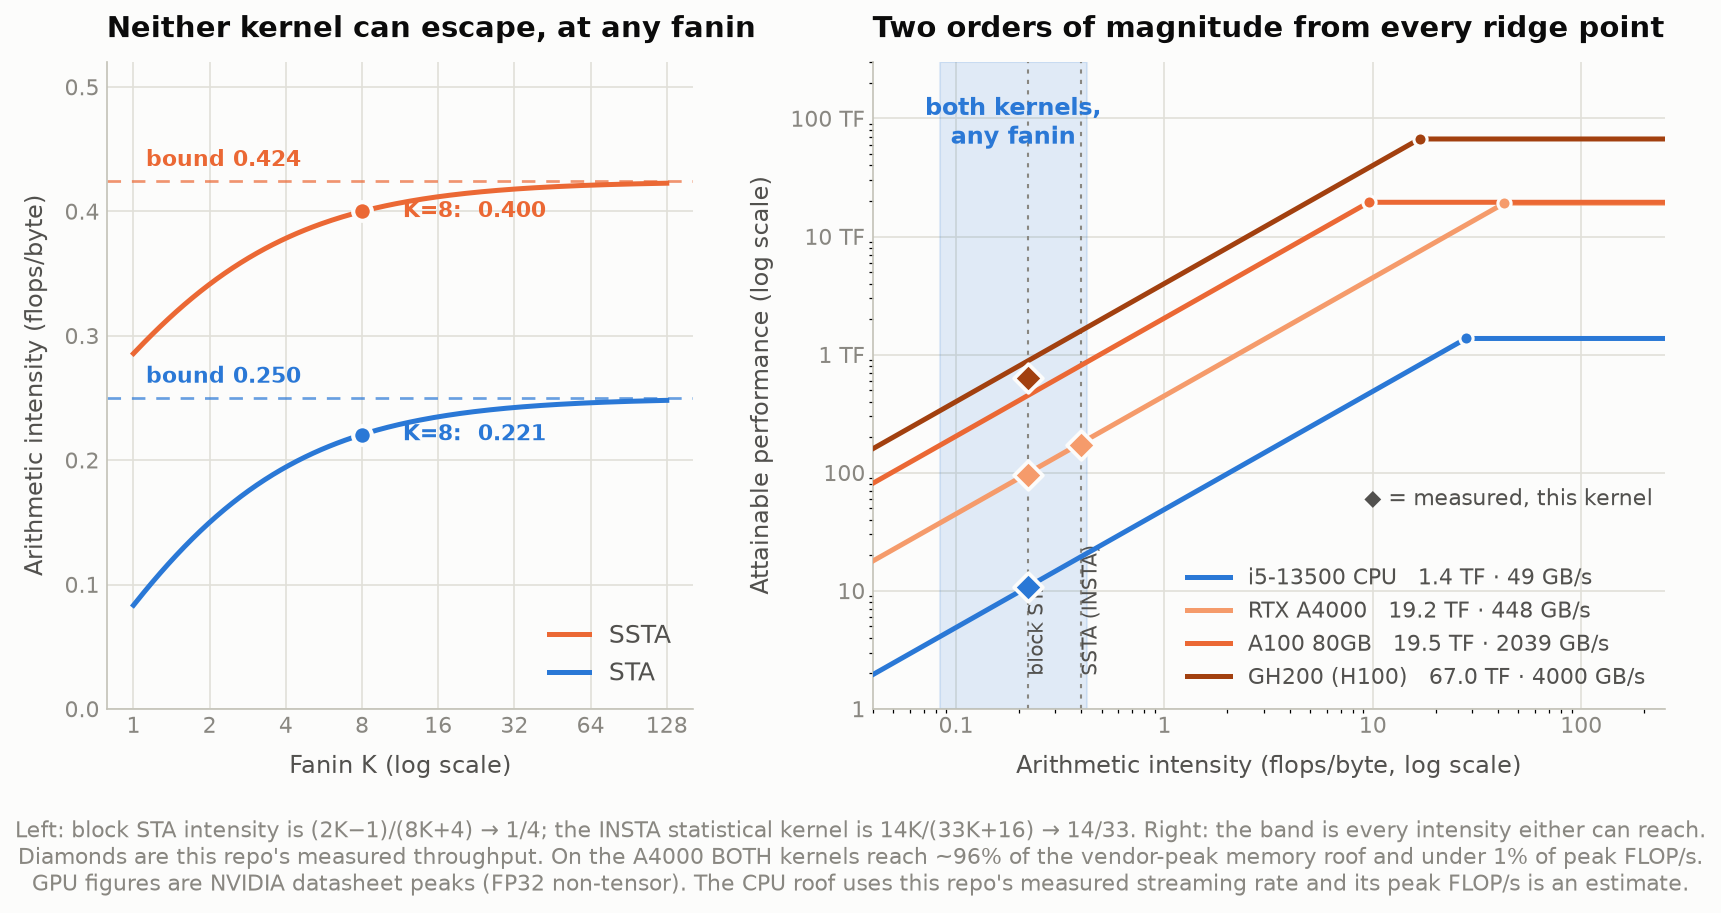
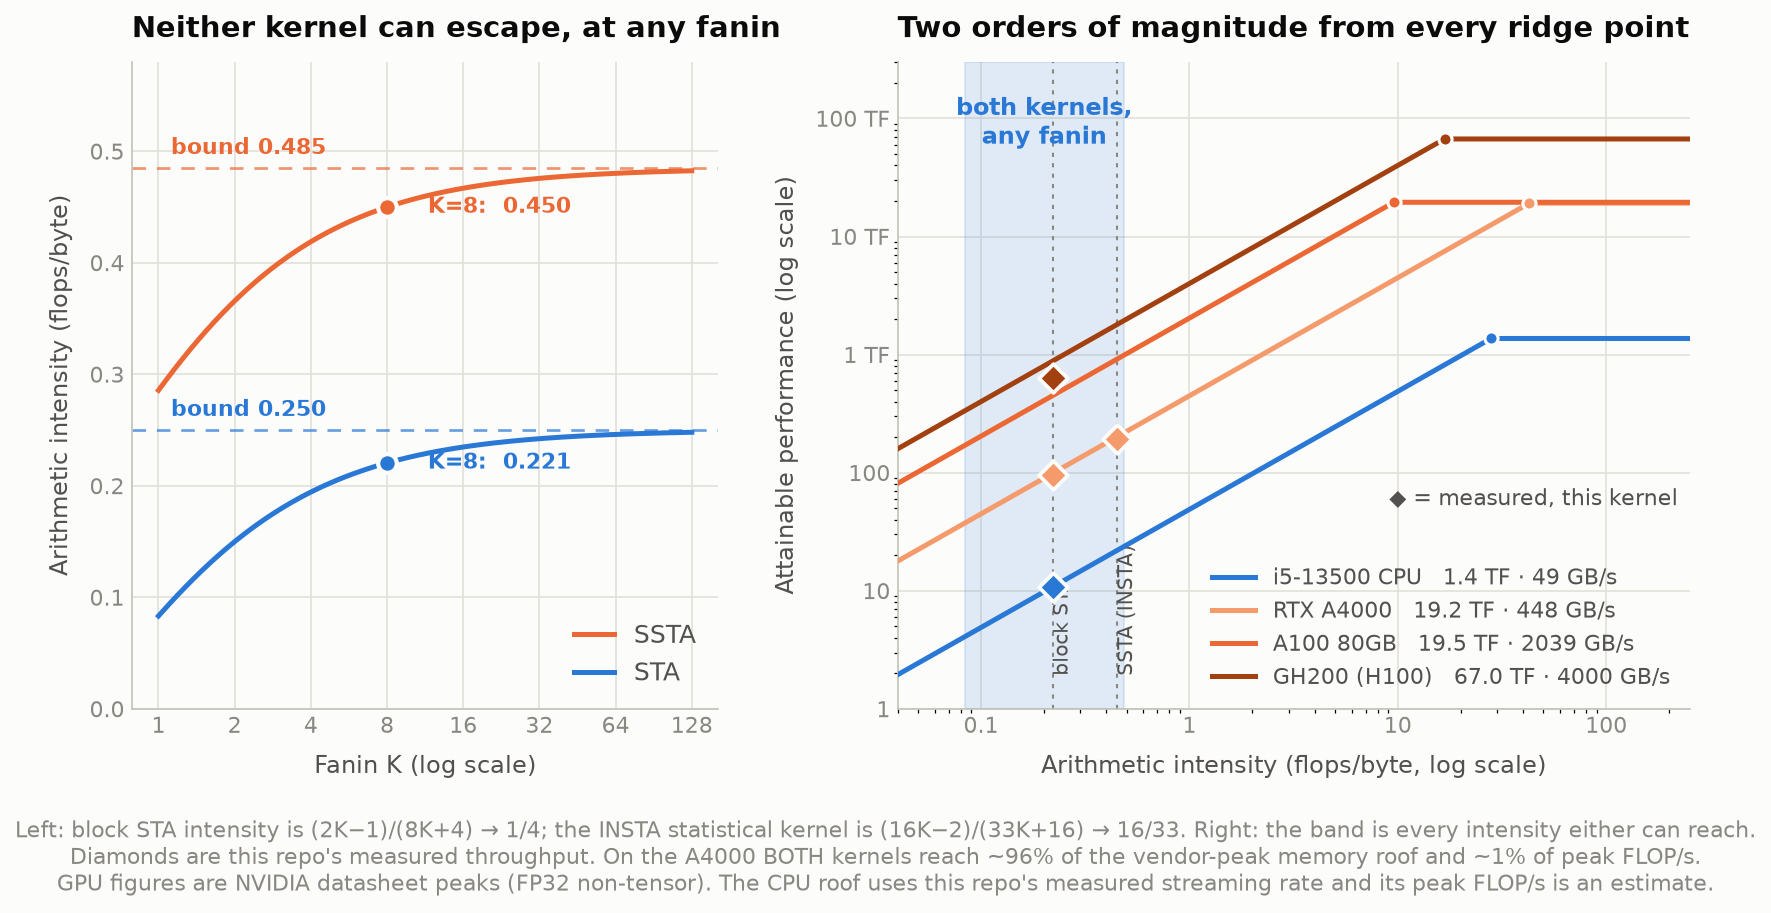
Use one flop-counting convention for both kernels
The block-based kernel counted its max as an operation (2K-1) while the
statistical one did not count its comparisons (14K). Same convention now
applies to both -- adds, multiplies, comparisons and sqrt each count as
one -- because mixing them flatters one kernel over the other.

SSTA is therefore 16K-2 flops per node, not 14K:
  intensity at K=8   0.400 -> 0.450
  bound over all K   0.424 -> 0.485  (16/33)
  measured A4000     172.8 -> 194.3 GFLOP/s, 1.01% of peak FP32

Conclusion is unchanged and slightly stronger: 96.4% of peak memory
bandwidth against 1% of peak arithmetic. Figure, README, ssta/README
and the section 1 script all updated together.

Claude-Session: https://claude.ai/code/session_01M43UAssLWb3wFebvbjxnoM

diff --git a/draw_roofline.py b/draw_roofline.py
@@ -72,11 +72,12 @@ def intensity(k):
 def intensity_ssta(k):
     """Statistical (POCV) propagation, the INSTA arithmetic.
 
-    Per fanin edge: 8 floats + a sense byte in (33 B), 14 flops (two
-    transitions x [add, 2 mul, add, sqrt, mul, add]). Per node: 4 floats out.
-    Tends to 14/33 = 0.424 -- higher than block STA, still far below balance.
+    Per fanin edge: 8 floats + a sense byte in (33 B). Per node: 4 floats out.
+    Flops: two transitions x [7 per edge + (K-1) comparisons] = 16K - 2, using
+    the same counting convention as block STA (comparisons count).
+    Tends to 16/33 = 0.485 -- higher than block STA, still far below balance.
     """
-    return 14.0 * k / (33.0 * k + 16.0)
+    return (16.0 * k - 2.0) / (33.0 * k + 16.0)
 
 
 # Measured on the RTX A4000 by this repo, both kernels on the same card.
@@ -108,7 +109,7 @@ def draw(theme):
 
     # ---- left: intensity vs fanin -----------------------------------------
     ks = np.logspace(0, 7, 200, base=2)
-    for fn, lim, col, lab in ((intensity_ssta, 14 / 33, t["g2"], "SSTA"),
+    for fn, lim, col, lab in ((intensity_ssta, 16 / 33, t["g2"], "SSTA"),
                               (intensity, 0.25, t["cpu"], "STA")):
         axk.plot(ks, fn(ks), color=col, linewidth=2.4, zorder=3, label=lab)
         axk.axhline(lim, color=col, linewidth=1.3, linestyle=(0, (5, 4)), zorder=2, alpha=0.7)
@@ -127,7 +128,7 @@ def draw(theme):
     axk.set_xscale("log", base=2)
     axk.set_xticks([1, 2, 4, 8, 16, 32, 64, 128])
     axk.get_xaxis().set_major_formatter(FuncFormatter(lambda v, _: f"{v:g}"))
-    axk.set_ylim(0, 0.52)
+    axk.set_ylim(0, 0.58)
     axk.set_xlabel("Fanin K (log scale)", color=t["ink2"], fontsize=11.5, labelpad=8)
     axk.set_ylabel("Arithmetic intensity (flops/byte)", color=t["ink2"], fontsize=11.5,
                    labelpad=8)
@@ -136,7 +137,7 @@ def draw(theme):
 
     # ---- right: roofline ---------------------------------------------------
     x = np.logspace(-1.4, 2.4, 400)
-    lo, hi = intensity(1), 14.0 / 33.0  # both kernels' entire reachable range
+    lo, hi = intensity(1), 16.0 / 33.0  # both kernels' entire reachable range
 
     axr.axvspan(lo, hi, color=t["cpu"], alpha=0.13, zorder=1)
     axr.text((lo * hi) ** 0.5, 1.6e5, "both kernels,\nany fanin", color=t["cpu"],
@@ -181,9 +182,9 @@ def draw(theme):
 
     fig.text(0.5, -0.02,
              "Left: block STA intensity is (2K−1)/(8K+4) → 1/4; the INSTA statistical kernel "
-             "is 14K/(33K+16) → 14/33. Right: the band is every intensity either can reach.\n"
+             "is (16K−2)/(33K+16) → 16/33. Right: the band is every intensity either can reach.\n"
              "Diamonds are this repo's measured throughput. On the A4000 BOTH kernels reach "
-             "~96% of the vendor-peak memory roof and under 1% of peak FLOP/s.\n"
+             "~96% of the vendor-peak memory roof and ~1% of peak FLOP/s.\n"
              "GPU figures are NVIDIA datasheet peaks (FP32 non-tensor). The CPU roof uses this "
              "repo's measured streaming rate and its peak FLOP/s is an estimate.",
              color=t["muted"], fontsize=10.5, ha="center", va="top")

diff --git a/ssta/ssta.hpp b/ssta/ssta.hpp
@@ -19,10 +19,11 @@
 // even this is memory bound, K > 1 (which re-reads the candidate array K times)
 // is more so.
 //
-// Compared with the block-based kernel in ../src/sta.hpp this does roughly 7x
-// the arithmetic per edge (14 flops vs 2) but also moves 4x the data, because
-// every value is now a (mean, std) pair and there are two transitions. The
-// point of the exercise is that the *ratio* barely moves.
+// Compared with the block-based kernel in ../src/sta.hpp this does 8x the
+// arithmetic per edge (16 flops vs 2) but also moves 4x the data, because every
+// value is now a (mean, std) pair and there are two transitions. The point of
+// the exercise is that the *ratio* barely moves: 0.221 -> 0.450 flops/byte,
+// against a machine balance of 9.6 to 43.
 #pragma once
 
 #include <cmath>
@@ -123,10 +124,16 @@ inline size_t bytes_per_pass(size_t n_nodes) {
     return n_nodes * (static_cast<size_t>(kFanin) * (8 * sizeof(float) + 1) + 4 * sizeof(float));
 }
 
+// Counting convention: adds, multiplies, comparisons and sqrt each count as one
+// operation. The same convention is used for the block-based kernel in
+// ../src/sta.hpp, where the max counts as an operation too -- mixing the two
+// would flatter one kernel over the other.
+//
 // Per edge, per transition: 1 add (mean) + 2 mul + 1 add + 1 sqrt (std) +
-// 1 mul + 1 add (rank) = 7. Two transitions = 14.
+// 1 mul + 1 add (rank) = 7, and reducing K candidates costs K-1 comparisons.
+// Two transitions: 2 * (7K + K - 1) = 16K - 2.
 inline size_t flops_per_pass(size_t n_nodes) {
-    return n_nodes * static_cast<size_t>(kFanin) * 14;
+    return n_nodes * (16 * static_cast<size_t>(kFanin) - 2);
 }
 
 inline uint64_t checksum(const float* a, const float* b, const float* c, const float* d,

diff --git a/ssta/README.md b/ssta/README.md
@@ -22,8 +22,13 @@ from its fall; a negative-sense arc swaps them. Candidates are ranked by `arr`
 and the largest kept.
 
 That is 7 flops per edge per transition — an add, two multiplies, an add, a
-**square root**, a multiply and an add — so **14 per edge**, against 2 for
-block-based STA. Seven times the arithmetic.
+**square root**, a multiply and an add — plus the comparison that keeps the
+largest, so **16 per edge** against 2 for block-based STA. Eight times the
+arithmetic.
+
+Counting convention: adds, multiplies, comparisons and `sqrt` each count as one
+operation, and the same convention is applied to block STA (where the `max`
+counts too). Mixing conventions would flatter one kernel over the other.
 
 INSTA keeps the top **K** with startpoint dedup, in two phases: build the
 candidate arrays in global memory, then run K argmax passes over them. We keep
@@ -37,22 +42,22 @@ not less.
 |  | block STA | SSTA (INSTA) |
 |---|---:|---:|
 | bytes per node (K=8) | 68 | 280 |
-| flops per node | 15 | 112 |
-| **arithmetic intensity** | **0.221** | **0.400** |
-| upper bound over all K | 0.250 | **0.424** |
+| flops per node | 15 | 126 |
+| **arithmetic intensity** | **0.221** | **0.450** |
+| upper bound over all K | 0.250 | **0.485** |
 
-Seven times the arithmetic bought **1.8× the intensity**, because every value is
+Eight times the arithmetic bought **2× the intensity**, because every value is
 now a `(mean, std)` pair and there are two transitions — the data grew almost as
 fast as the maths did. Measured on the same RTX A4000:
 
 |  | achieved BW | % of 448 GB/s peak | achieved FLOP/s | % of 19.2 TF peak |
 |---|---:|---:|---:|---:|
 | block STA | 429.7 GB/s | 95.9% | 95 GFLOP/s | 0.50% |
-| **SSTA** | **431.9 GB/s** | **96.4%** | 172.8 GFLOP/s | **0.90%** |
+| **SSTA** | **431.9 GB/s** | **96.4%** | 194.3 GFLOP/s | **1.01%** |
 
-**The statistical kernel uses 96% of the card's memory bandwidth and 0.9% of its
+**The statistical kernel uses 96% of the card's memory bandwidth and 1% of its
 arithmetic.** Machine balance is 9.6–43 flops/byte; this kernel tops out at
-0.424. It is not close, and no fanin changes that.
+0.485. It is not close, and no fanin changes that.
 
 CPU side, same machine as the rest of the repo: best 34.3 GB/s, saturating
 around 6 threads — the same shape as the block-based kernel, at a lower ceiling

diff --git a/SECTION1_SCRIPT.md b/SECTION1_SCRIPT.md
@@ -301,17 +301,17 @@ measurement, not argument:
 
 > "Agreed, so we implemented the statistical propagation from INSTA — means add,
 > standard deviations combine in quadrature with a square root, both rise and
-> fall transitions, sense inversion, ranked by mean plus sigma times sigma. Seven
+> fall transitions, sense inversion, ranked by mean plus sigma times sigma. Eight
 > times the arithmetic per edge.
 >
-> The arithmetic intensity went from 0.22 to 0.40. Because every value became a
+> The arithmetic intensity went from 0.22 to 0.45. Because every value became a
 > mean-and-sigma pair and there are two transitions, so the data grew nearly as
 > fast as the maths did.
 >
 > On the same card that kernel achieves ninety-six percent of peak memory
-> bandwidth — and nine tenths of one percent of peak FLOPs. It's in the repo."
+> bandwidth — and one percent of peak FLOPs. It's in the repo."
 
-The ceiling over *all* fanin is 14/33 = 0.424, still an order of magnitude below
+The ceiling over *all* fanin is 16/33 = 0.485, still an order of magnitude below
 the friendliest ridge point. Details in `ssta/README.md`.
 
 **3. The proof (if someone is still unconvinced — this ends it).**

diff --git a/README.md b/README.md
@@ -53,12 +53,12 @@ work item is a 10 ms blocking sleep, so their curve peaks and collapses. Ours is
 
 Yes. `ssta/` implements the statistical (POCV) propagation from INSTA — means
 add, sigmas combine in quadrature via `sqrt`, both transitions, sense inversion,
-ranked by `mean + sigma*std`. That is **7× the arithmetic per edge**, and it
-moves the intensity from 0.221 to **0.400** (bounded by 14/33 = 0.424 over all
+ranked by `mean + sigma*std`. That is **8× the arithmetic per edge**, and it
+moves the intensity from 0.221 to **0.450** (bounded by 16/33 = 0.485 over all
 fanin) — because every value became a `(mean, std)` pair and there are two
 transitions, so the data grew nearly as fast as the maths.
 
-Measured on the same A4000: **96.4% of peak memory bandwidth, 0.90% of peak
+Measured on the same A4000: **96.4% of peak memory bandwidth, 1.01% of peak
 FLOP/s.** See [ssta/README.md](ssta/README.md).
 
 ## Porting to H100 and GH200
